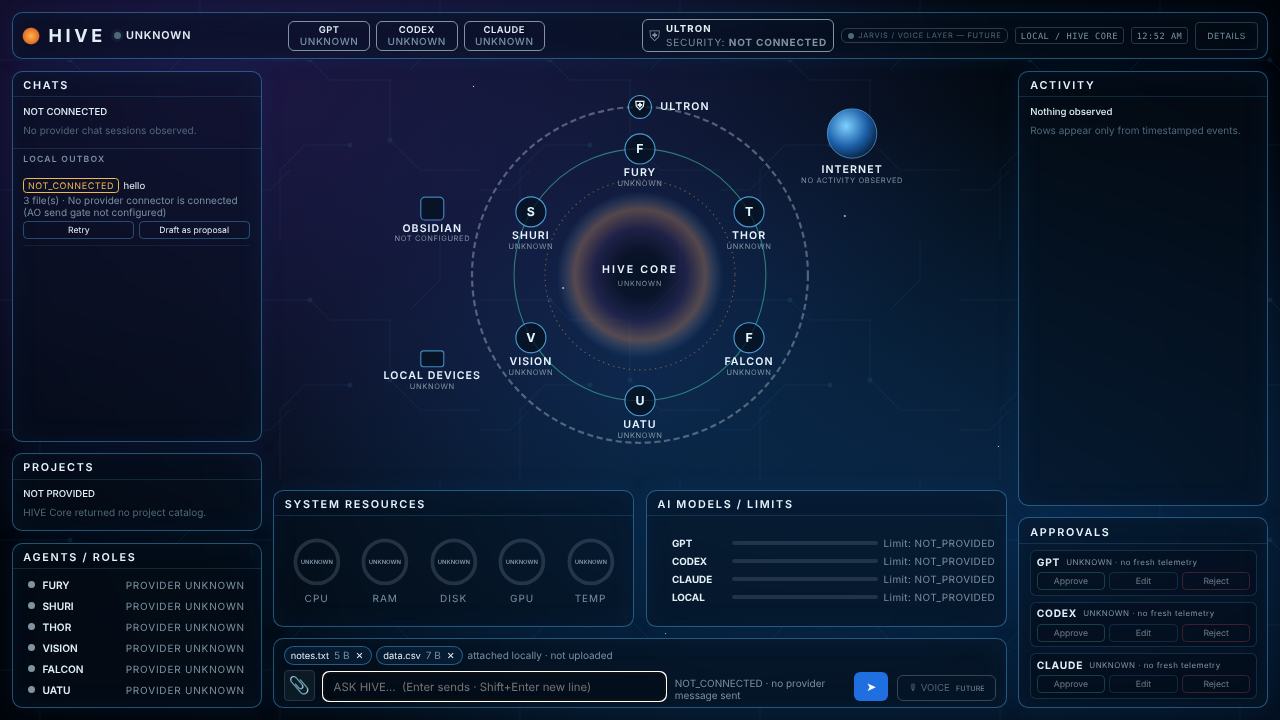
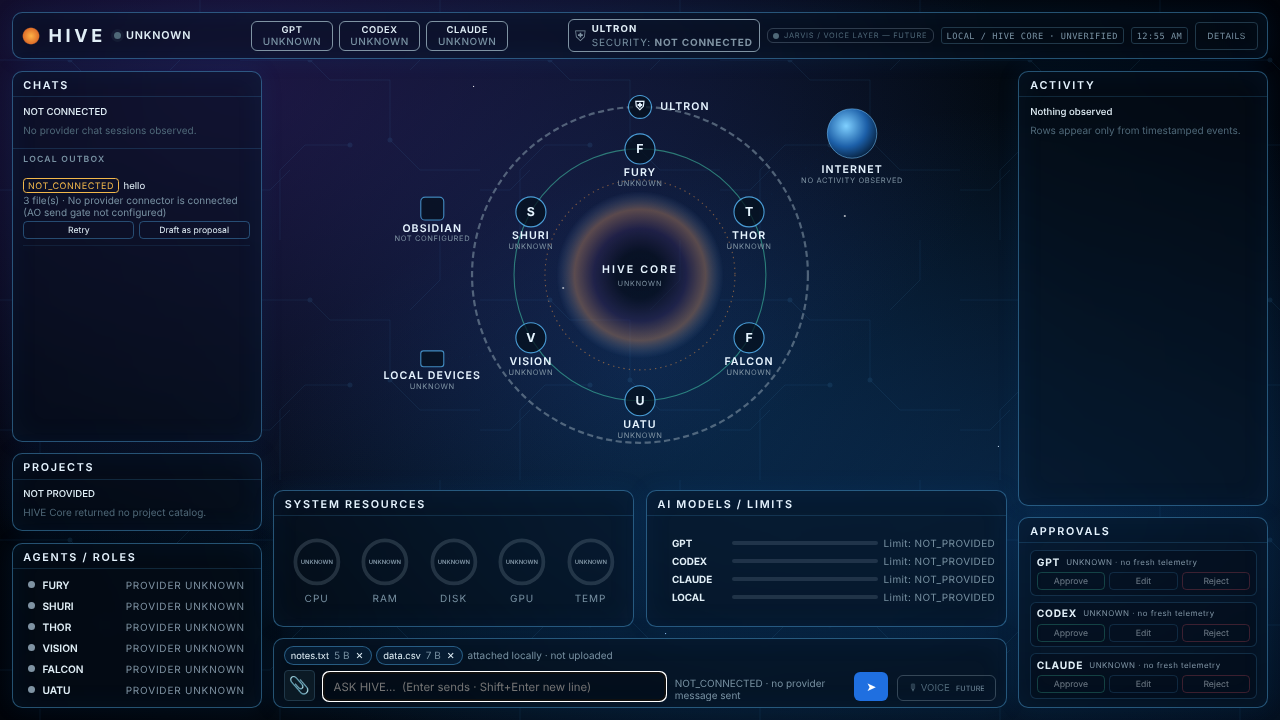
Final QA: record independent review, P1.1 recommendation
Claude-Session: https://claude.ai/code/session_01H3kenukuoJUFG5vRsMZSQa

Changed region(s): [[0.1875, 0.0306, 0.875, 0.0917], [0.8125, 0.7333, 0.875, 0.7639]]

diff --git a/docs/hive/HANDOFF_REPORT.md b/docs/hive/HANDOFF_REPORT.md
@@ -51,7 +51,7 @@ Other: top-bar text "ULTRON SECURITY: ACTIVE" from the spec is shown as NOT CONN
 PASS_AUTOMATED 39 | PASS_MANUAL 1 | PARTIAL 12 | NOT_VERIFIED 1 | NOT_RUN 22. All 22 NOT_RUN items and most of the 12 PARTIAL items belong to P1.x or to Windows/live checks; the spec section 15 summary rows are S15.1-S15.16 in that file.
 
 ## 7. Budget ledger summary
-Rough effort, not observed spend: baseline ~1, P0.1 ~8 of 10, P0.2 ~11 of 18, P0.3 ~15 of 18, final QA so far ~3 of 9. Total about $38 of the $100 ceiling; P1.x allocations (~$45) and the unspent QA reserve remain. Subagents used: PM, UX, Test Engineer (+ the final independent reviewer, if listed in BUDGET_LEDGER.md). See `BUDGET_LEDGER.md`.
+Rough effort, not observed spend: baseline ~1, P0.1 ~8 of 10, P0.2 ~11 of 18, P0.3 ~15 of 18, final QA so far ~3 of 9. Total about $38 of the $100 ceiling; P1.x allocations (~$45) and the unspent QA reserve remain. Subagents used: 4 of the 8 allowed (PM, UX, Test Engineer, independent final reviewer). See `BUDGET_LEDGER.md`.
 
 ## 8. Rollback
 Branch `hive/dashboard-v1`. Remote tags (verified with `git ls-remote`): `backup/pre-p0.1` (ba0ad1e), `backup/pre-p0.2` (c9f38eb), `backup/pre-p0.3` (28fa51b). `backup/pre-p1.1` has deliberately NOT been created. P0 checkpoint commit: `11439e5`. `git checkout -B hive/dashboard-v1 <tag>` restores any earlier phase.
@@ -63,5 +63,8 @@ Branch `hive/dashboard-v1`. Remote tags (verified with `git ls-remote`): `backup
 4. Check 1280x720, 1920x1080, 2560x1440 on the real monitor; compare against `docs/assets/hive-dashboard-target.png` yourself - parity is not claimed.
 5. Attach files, send with no provider: expect NOT_CONNECTED; confirm no network write in DevTools.
 
-## 10. Is P1.1 justified?
-See the final QA message in the conversation and the last section of `BUDGET_LEDGER.md`.
+## 10. Independent final review
+A fresh-context reviewer re-ran every suite (counts matched this report), read the code behind claims (a)-(h) (UNKNOWN-not-WORKING, untrusted events dropped, movement gating, strict SENT gate, local-only approvals, no provider POSTs, nothing invented, provider symmetry), spot-checked acceptance rows and the diff file list, and reported no problems. It did not read `hive_events.py`/the server events code line by line, did not diff the OpenCode test against baseline, and did not scan file contents for secrets. The author's own content scan found secret-shaped strings only in redaction test inputs (`tests/ops.test.mjs`, `tests/redaction_cases.json`, `tests/test_events.py`, `tests/test_server.py`), all synthetic. Demo mode shows a visible DEMO banner (asserted in `tests/e2e/shell.e2e.mjs`).
+
+## 11. Is P1.1 justified?
+Conditionally. For: SYSTEM RESOURCES and AI MODELS / LIMITS are the most visible all-UNKNOWN panels and S15.12 depends on them; the work needs no credentials. Against: it can only be tested here with mocked OS output (real Windows CPU/RAM/GPU/USB/MTP behavior is NOT VERIFIED IN CLOUD), and its data would come through the same unverified live HIVE Core path. Default recommendation: do the Windows smoke test in section 9 first; if the P0 checkpoint behaves on the real machine, P1.1 is justified as a narrow phase (OS metrics + KNOWN/UNKNOWN/NOT_PROVIDED limits, mocked tests, no connectors). If the live path misbehaves, fix that (and GAP-1/GAP-2) before adding more panels. `backup/pre-p1.1` has not been created and no P1 work has started.

diff --git a/BUDGET_LEDGER.md b/BUDGET_LEDGER.md
@@ -43,3 +43,5 @@ Rough effort estimates against the USD 100 allocation (dollar spend is not obser
 - QA found and fixed one more honesty defect: the server's static label "LOCAL / HIVE CORE" displayed next to an unreachable Core; the tag now appends "UNVERIFIED" unless Core health was observed (test added).
 - ACCEPTANCE.md: spec section 15 rows updated honestly (39 PASS_AUTOMATED, 1 PASS_MANUAL, 12 PARTIAL, 1 NOT_VERIFIED, 22 NOT_RUN of 75). GAP-1..GAP-7 all remain OPEN. docs/hive/HANDOFF_REPORT.md written.
 - Effort: ~$3 of $9 reserve so far; running total about $38 of $100 (rough). P1.x not started.
+- Independent final reviewer (subagent #4, fresh context): re-ran all suites, counts matched; verified behavioural claims (a)-(h) by reading code; no problems reported. Own follow-ups: py_compile + diff --check re-run clean; content scan found secret-shaped strings only in synthetic redaction test inputs; demo banner assertion exists.
+- Subagents total: 4 of 8. Final QA effort ~$4 of the $9 reserve. Running total about $39 of $100 (rough, not observed). P1.1 not started; recommendation recorded in HANDOFF_REPORT.md section 11.
